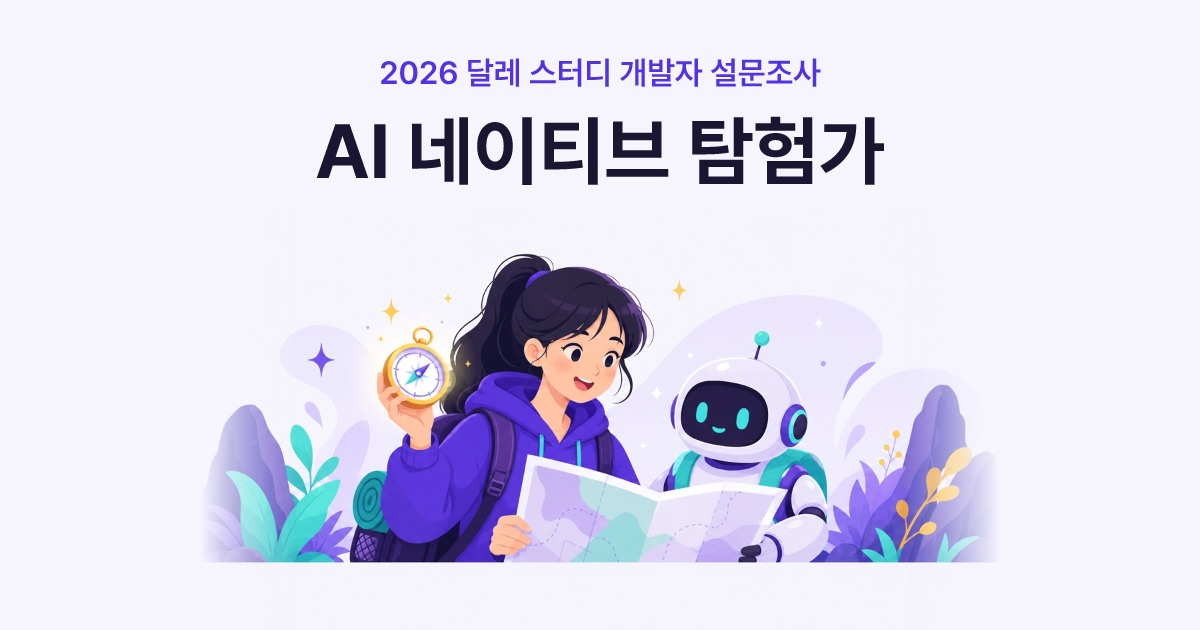
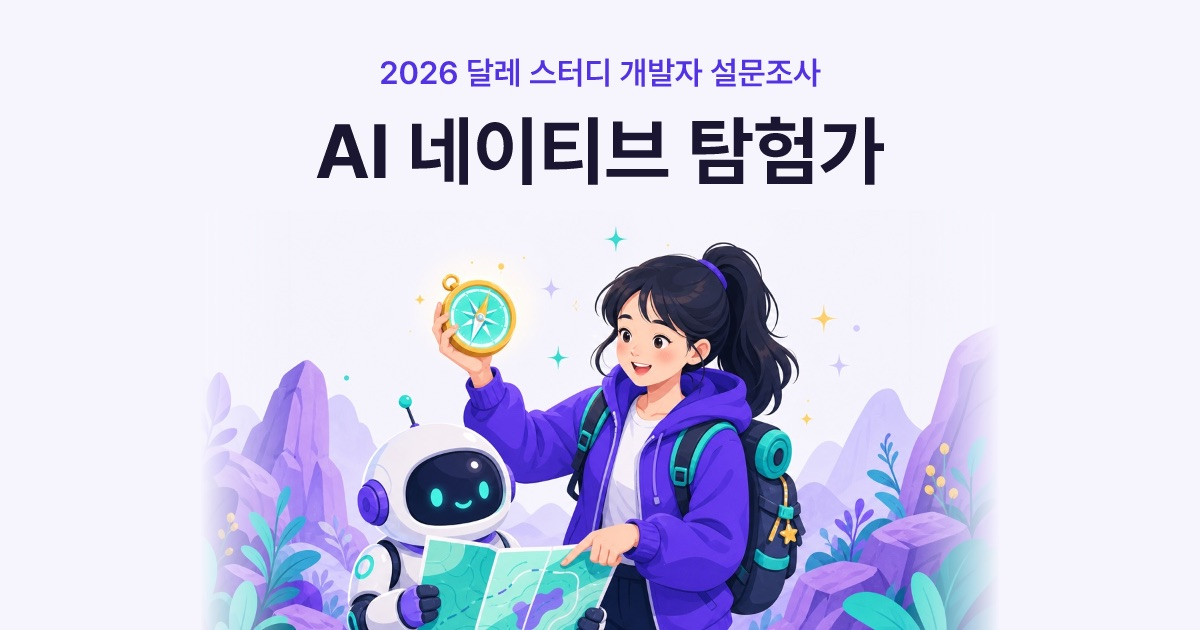
fix: redraw ai-explorer with two natural hands

Changed region(s): [[0.1542, 0.3619, 0.8325, 1.0], [0.6783, 0.4825, 0.7092, 0.5127], [0.4933, 0.3619, 0.5242, 0.3921]]

diff --git a/scripts/type-images.ts b/scripts/type-images.ts
@@ -13,7 +13,7 @@ const STYLE =
 
 const SCENES: Record<string, string> = {
   'ai-explorer':
-    'A Korean woman developer in her twenties with a ponytail and a small cute robot companion exploring together, holding a glowing compass and a map, sparkles around them, curious and excited mood.',
+    'A Korean woman developer in her twenties with a ponytail and a backpack, exploring a stylized outdoor landscape of purple rocks and teal plants with a small cute robot companion. Her right hand raises a glowing compass. The robot holds an open map with both of its own hands, and her left hand reaches across to touch the map with one finger. Show exactly two human hands, anatomically correct. Sparkles around them, curious and excited mood.',
   'ai-pragmatist':
     'A Korean man developer in his thirties, relaxed at a tidy desk while a small cute robot assistant hands over a finished checklist, a wall clock and a bag ready to go home, efficient and satisfied mood.',
   'careful-experimenter':
